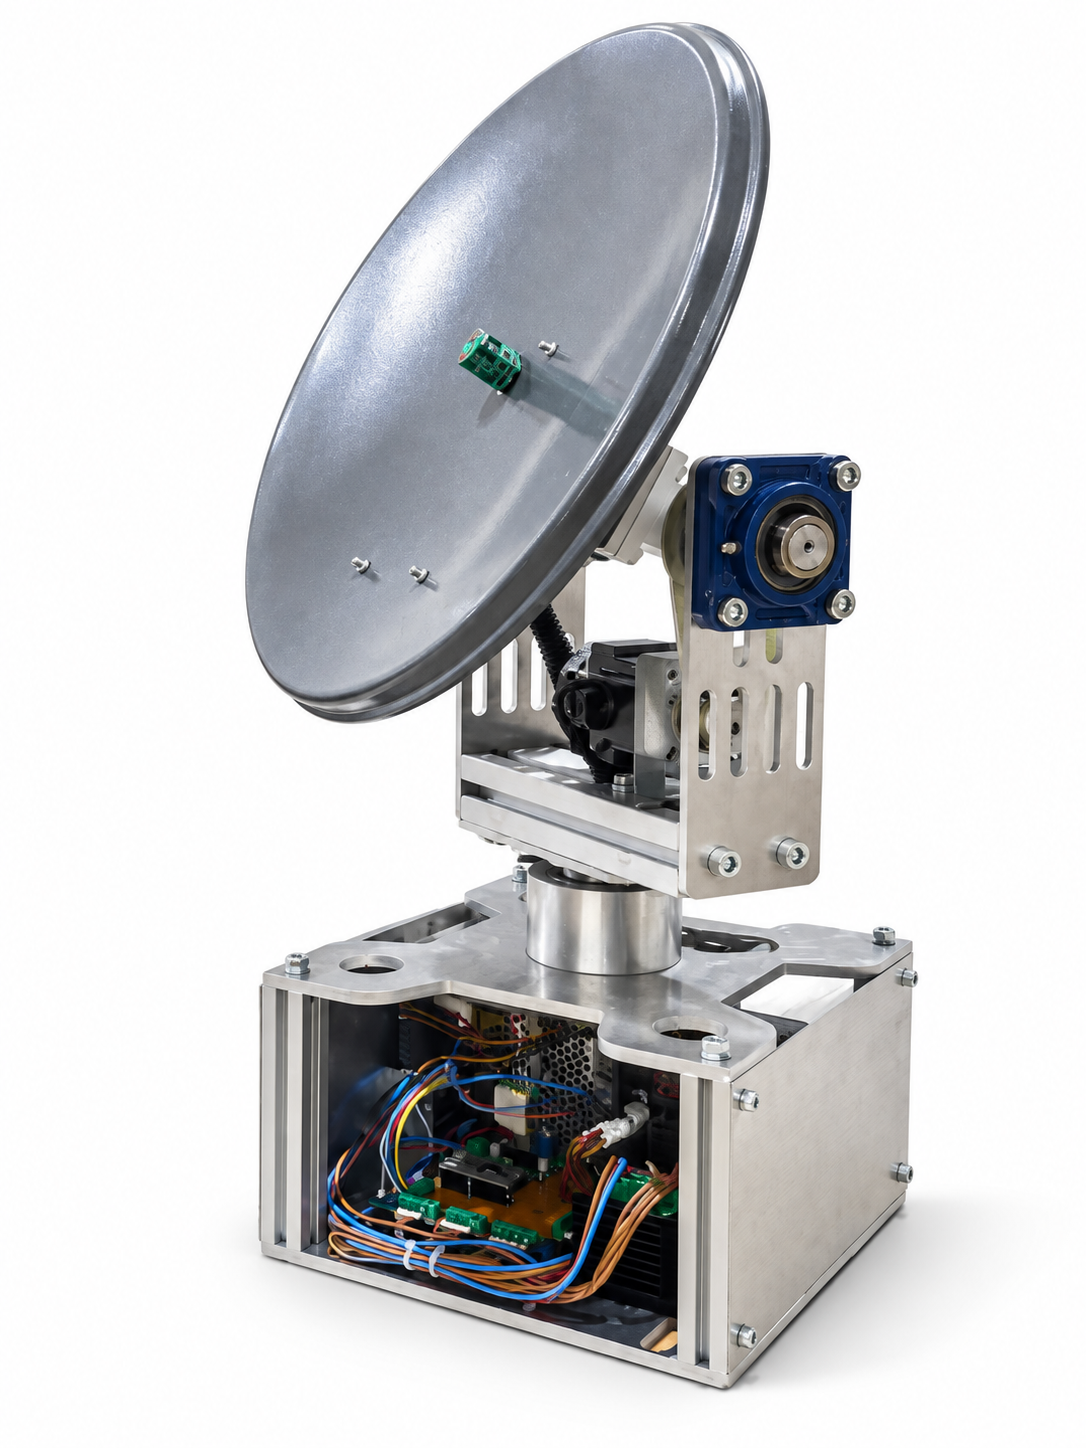
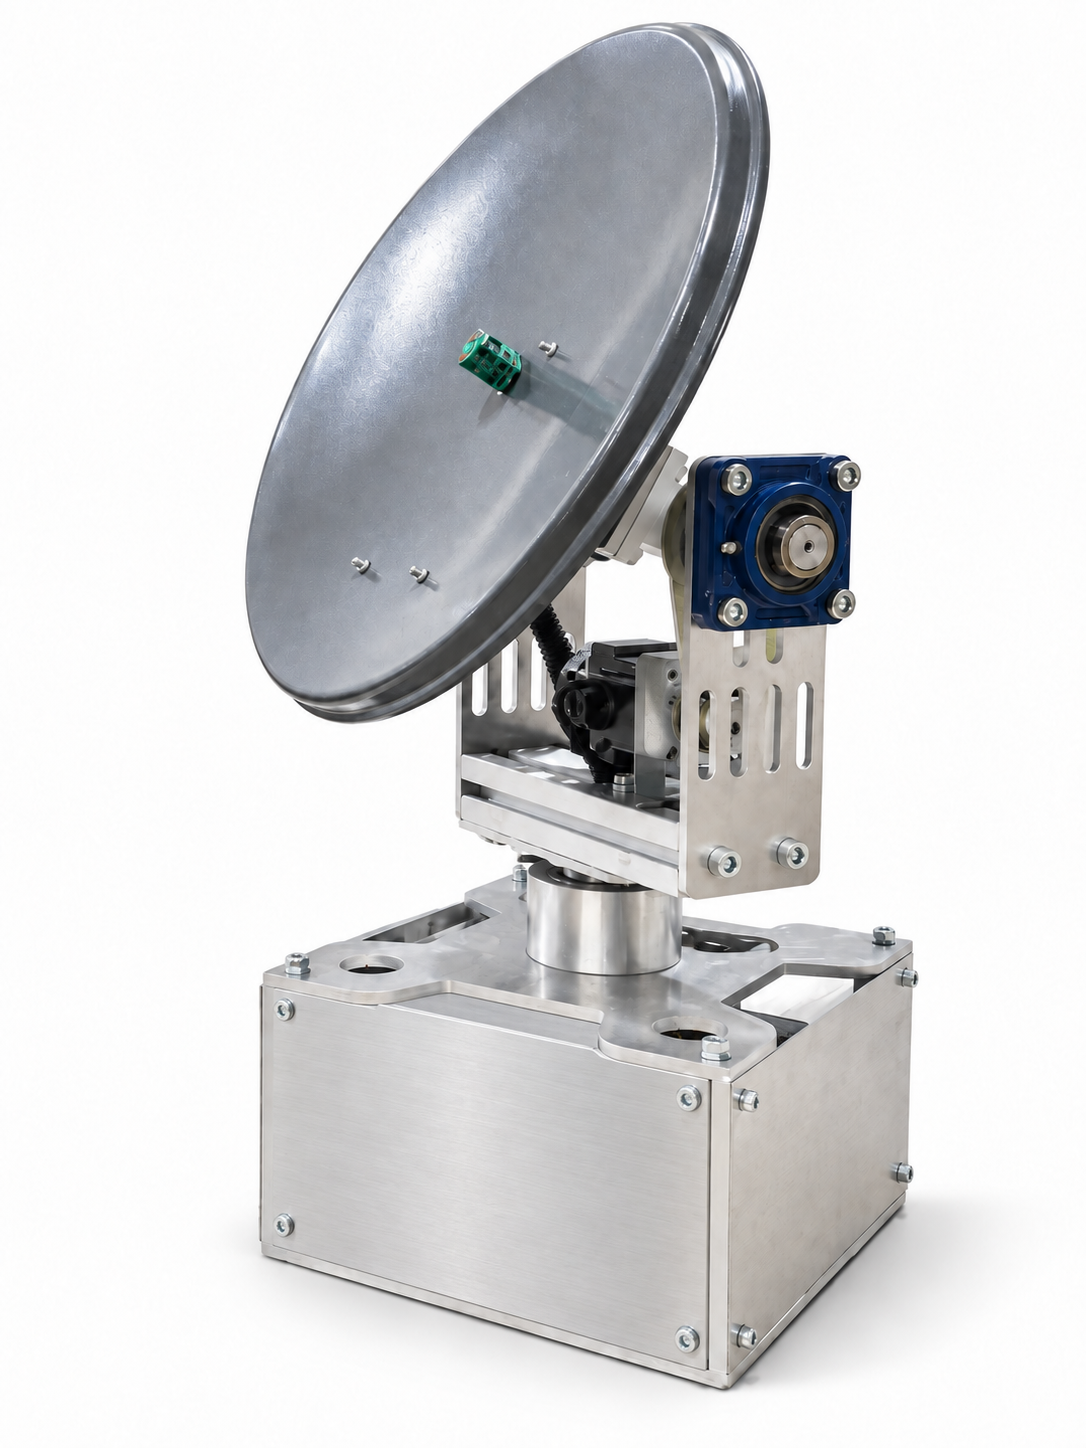
Enclose terminal electronics in product image

diff --git a/src/components/sections/hardware.tsx b/src/components/sections/hardware.tsx
@@ -22,9 +22,9 @@ export function Hardware() {
           <figure className="relative flex h-full flex-col border border-border bg-panel p-3">
             <img
               src={terminalPrototype}
-              alt="Beyaz fonda ARES-Reflect terminal prototipi: açık elektronik gövde, hareket mekanizması ve parabolik anten"
-              width={900}
-              height={900}
+              alt="Beyaz fonda ARES-Reflect terminal prototipi: alüminyum muhafaza, hareket mekanizması ve parabolik anten"
+              width={1086}
+              height={1448}
               loading="lazy"
               className="block h-auto w-full"
             />
